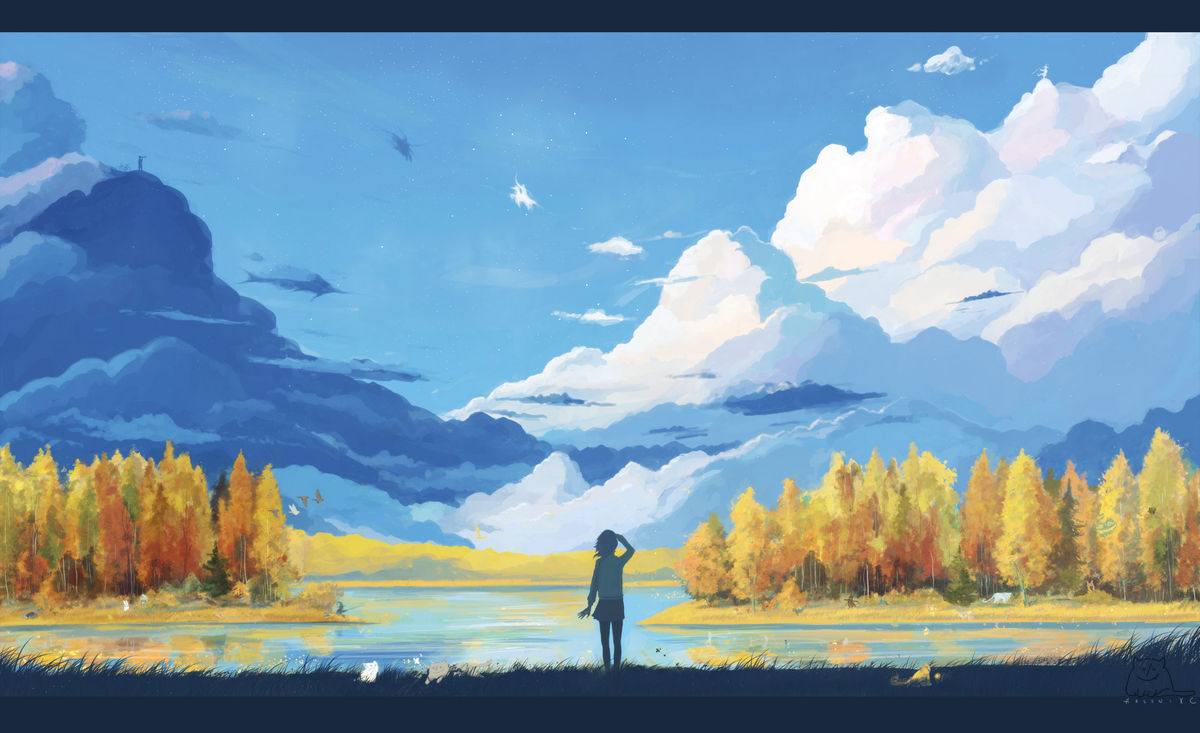
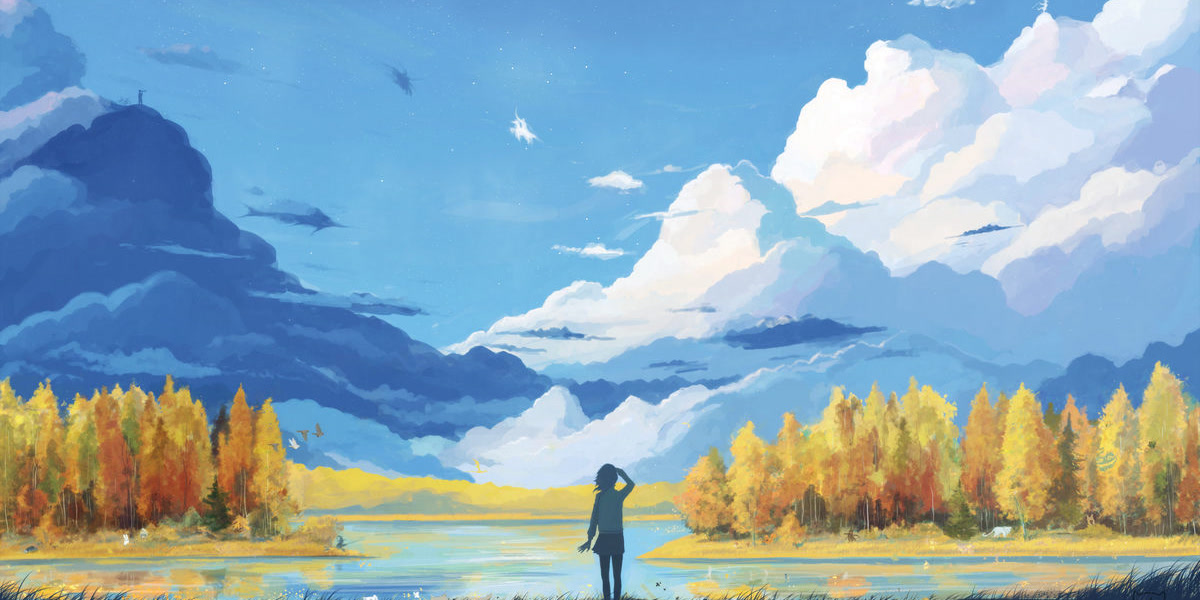
Adjust intro/outro image guidance

diff --git a/skills/qml-authoring/SKILL.md b/skills/qml-authoring/SKILL.md
@@ -13,6 +13,7 @@ description: Use this skill when authoring, reviewing, fixing, or documenting QM
 - 编写或修订 `quiz.md` 内容
 - 维护 `quiz.md` Front Matter，包括 `title`、`description`、`tags`
 - 维护 traits 量表问卷的维度说明、分析建议与 Front Matter 解释口径
+- 维护问卷 `intro` / `outro` 图片及其展示约定
 - 排查 QML 解析错误
 - 更新 `qml.md` 或 QML 示例
 - 评审 QML 语法与 parser 行为是否一致
@@ -32,6 +33,7 @@ description: Use this skill when authoring, reviewing, fixing, or documenting QM
 - 若拿不到本地 parser 实现，优先以 `parser-truth.md` 中写明的契约和边界为准
 - QML 语法与 quiz 仓库规范分层维护，不混写
 - `trait` 元数据必须与题面实际使用保持一致；没有 traits 量表题时应移除 `trait` 段
+- `intro` / `outro` 图片是可选项；若添加，优先建议使用约 `2:1` 的横幅比例
 
 ## 参考资料
 

diff --git a/skills/md-quiz/SKILL.md b/skills/md-quiz/SKILL.md
@@ -25,6 +25,7 @@ description: Use this skill as the default entry point when creating, editing, r
    - `single + {scoring=traits}` 量表题
    - traits 维度含义、分析建议与结果解释口径
    - `trait` 元数据是否与题面实际使用一致
+   - `intro` / `outro` 图片是否需要补充，以及是否适合横幅展示
    - welcome/end image
    - QML parser 契约与边界
 3. 若是以下内容，转到 [../quiz-repo-spec/SKILL.md](../quiz-repo-spec/SKILL.md)：

diff --git a/skills/qml-authoring/references/qml-spec.md b/skills/qml-authoring/references/qml-spec.md
@@ -154,6 +154,8 @@ prompt_template=请只输出分数数字。
 
 - 首题前仅支持单独一张 Markdown 图片，映射为 `welcome_image`
 - 末题后仅支持单独一张 Markdown 图片，映射为 `end_image`
+- `intro` / `outro` 图片都属于可选项，不是问卷必填内容
+- 若使用首图或尾图，建议优先使用横幅图，推荐宽高比约为 `2:1`
 
 示例：
 

diff --git a/quizzes/common-test-2025/quiz.md b/quizzes/common-test-2025/quiz.md
@@ -934,4 +934,4 @@ $0.6\times0.1\times0.7\times0.4\times0.7\times0.5=0.00588$。
    - 部分得分: 内容零散、堆砌观点，没有清晰逻辑
 [/rubric]
 
-![bye](./assets/1759167.jpg)
+![outro](./assets/1759167.jpg)
